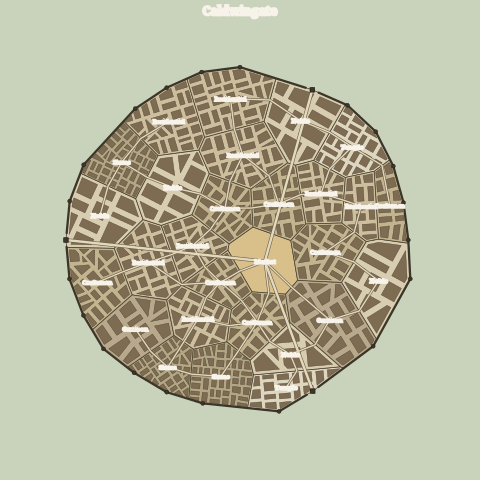
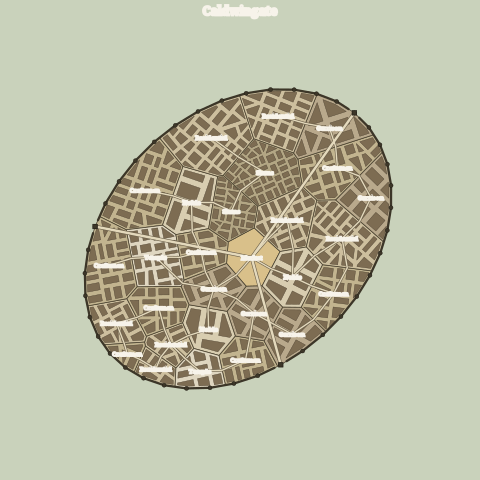
Make settlement footprints organic, not circular (v0.11.0)
Town outlines were a jittered circle passed through a convex hull → near-perfect
disks. _footprint now builds an elongated (anisotropic), randomly-rotated outline
with low-frequency radial lobes (1st + 2nd harmonics) so towns come out clearly
non-circular — egg/oval/lopsided shapes — while staying convex, so the lots,
streets, and wall layers (which assume convex wards/footprint) are unaffected.
_radius cap 0.46→0.40 of the canvas to keep a margin once elongated.

Bundles the previously-unreleased Hypothesis property tests and benchmark/Perf
docs into this version. Regenerated the town/port/citadel gallery (terrain,
dungeon, roads, regions images unchanged). 246 tests pass, ruff clean.

Note: making *terrain* landmasses non-circular is a deeper, hydrology-coupled
redesign — attempted and reverted; scoped for a dedicated effort (see roadmap).

Changed region(s): [[0.125, 0.125, 0.875, 0.875]]

diff --git a/src/mapwright/settlement.py b/src/mapwright/settlement.py
@@ -437,19 +437,37 @@ class SettlementGenerator:
 
     @staticmethod
     def _radius(population: int, width: int, height: int) -> float:
-        """Town radius: grows with √population, capped to fit the canvas."""
-        fit = 0.46 * min(width, height)
+        """Town radius (long axis): grows with √population, capped to leave the
+        canvas a margin even once the footprint is elongated/lobed."""
+        fit = 0.40 * min(width, height)
         return min(fit, max(6.0, math.sqrt(population) * 0.45))
 
     def _footprint(self, cx: float, cy: float, radius: float, irregularity: float) -> list[Point]:
-        """An organic, convex blob: jittered radii around a ring, then convex hull
-        (the hull guarantees convexity so wards clip cleanly)."""
-        k = 28
+        """An organic, convex town outline — clearly non-circular: elongated along a
+        random axis, lopsided via low-frequency radial lobes, then convex-hulled so
+        wards still clip cleanly. ``radius`` is the long-axis half-extent.
+
+        (Low-frequency harmonics — not per-vertex jitter — are what survive the
+        convex hull as real lobes; independent jitter just hulls back to a circle.)
+        """
+        theta = self._rng.uniform(0.0, 2.0 * math.pi)          # random orientation
+        aspect = 1.0 + (0.25 + 0.45 * irregularity) * self._rng.random()  # elongation
+        a1 = 0.16 * irregularity * self._rng.uniform(0.4, 1.0)  # lopsided (1st harmonic)
+        a2 = 0.10 * irregularity * self._rng.uniform(0.4, 1.0)  # oval-ish (2nd harmonic)
+        p1 = self._rng.uniform(0.0, 2.0 * math.pi)
+        p2 = self._rng.uniform(0.0, 2.0 * math.pi)
+        ct, st = math.cos(theta), math.sin(theta)
+
+        k = 40
         pts: list[Point] = []
         for i in range(k):
-            ang = 2 * math.pi * i / k
-            rr = radius * (1.0 + self._rng.fuzzy(0.0, 0.18 * irregularity))
-            pts.append((cx + rr * math.cos(ang), cy + rr * math.sin(ang)))
+            ang = 2.0 * math.pi * i / k
+            rr = 1.0 + a1 * math.sin(ang + p1) + a2 * math.sin(2 * ang + p2)
+            ux = rr * math.cos(ang)              # long axis (= radius)
+            uy = rr * math.sin(ang) / aspect     # squash the short axis → ellipse
+            x = radius * (ux * ct - uy * st)     # rotate into the random frame
+            y = radius * (ux * st + uy * ct)
+            pts.append((cx + x, cy + y))
         return convex_hull(pts)
 
     def _apply_coast(

diff --git a/src/mapwright/__init__.py b/src/mapwright/__init__.py
@@ -52,7 +52,7 @@ from .terrain import (
     compute_cell_polygons,
 )
 
-__version__ = "0.10.0"
+__version__ = "0.11.0"
 
 __all__ = [
     "SeededRNG",

diff --git a/CHANGELOG.md b/CHANGELOG.md
@@ -8,7 +8,13 @@ All notable changes to mapwright are documented here. The format follows
 `tests/test_api_contract.py`). While the version is `0.x`, minor versions may
 make breaking changes; these will always be noted here.
 
-## [Unreleased]
+## [0.11.0] — 2026-06-02
+
+### Changed
+- **Settlement footprints are no longer circular.** Town outlines are now
+  elongated along a random axis, lopsided via low-frequency radial lobes, and
+  rotated — a clearly organic (but still convex, so lots/streets/walls stay valid)
+  shape instead of a near-perfect disk. Regenerated the town/port/citadel gallery.
 
 ### Added
 - Property-based tests (Hypothesis, a new dev dependency) over config clamping,
@@ -177,7 +183,8 @@ Initial release. Domain-neutral procedural fantasy map & world generation.
   polygons, coastline, rivers, labelled markers. `compute_cell_polygons` rebuilds
   convex Voronoi polygons via half-plane clipping.
 
-[Unreleased]: https://github.com/sligara7/mapwright/compare/v0.10.0...HEAD
+[Unreleased]: https://github.com/sligara7/mapwright/compare/v0.11.0...HEAD
+[0.11.0]: https://github.com/sligara7/mapwright/compare/v0.10.0...v0.11.0
 [0.10.0]: https://github.com/sligara7/mapwright/compare/v0.9.0...v0.10.0
 [0.9.0]: https://github.com/sligara7/mapwright/compare/v0.8.0...v0.9.0
 [0.8.0]: https://github.com/sligara7/mapwright/compare/v0.7.0...v0.8.0